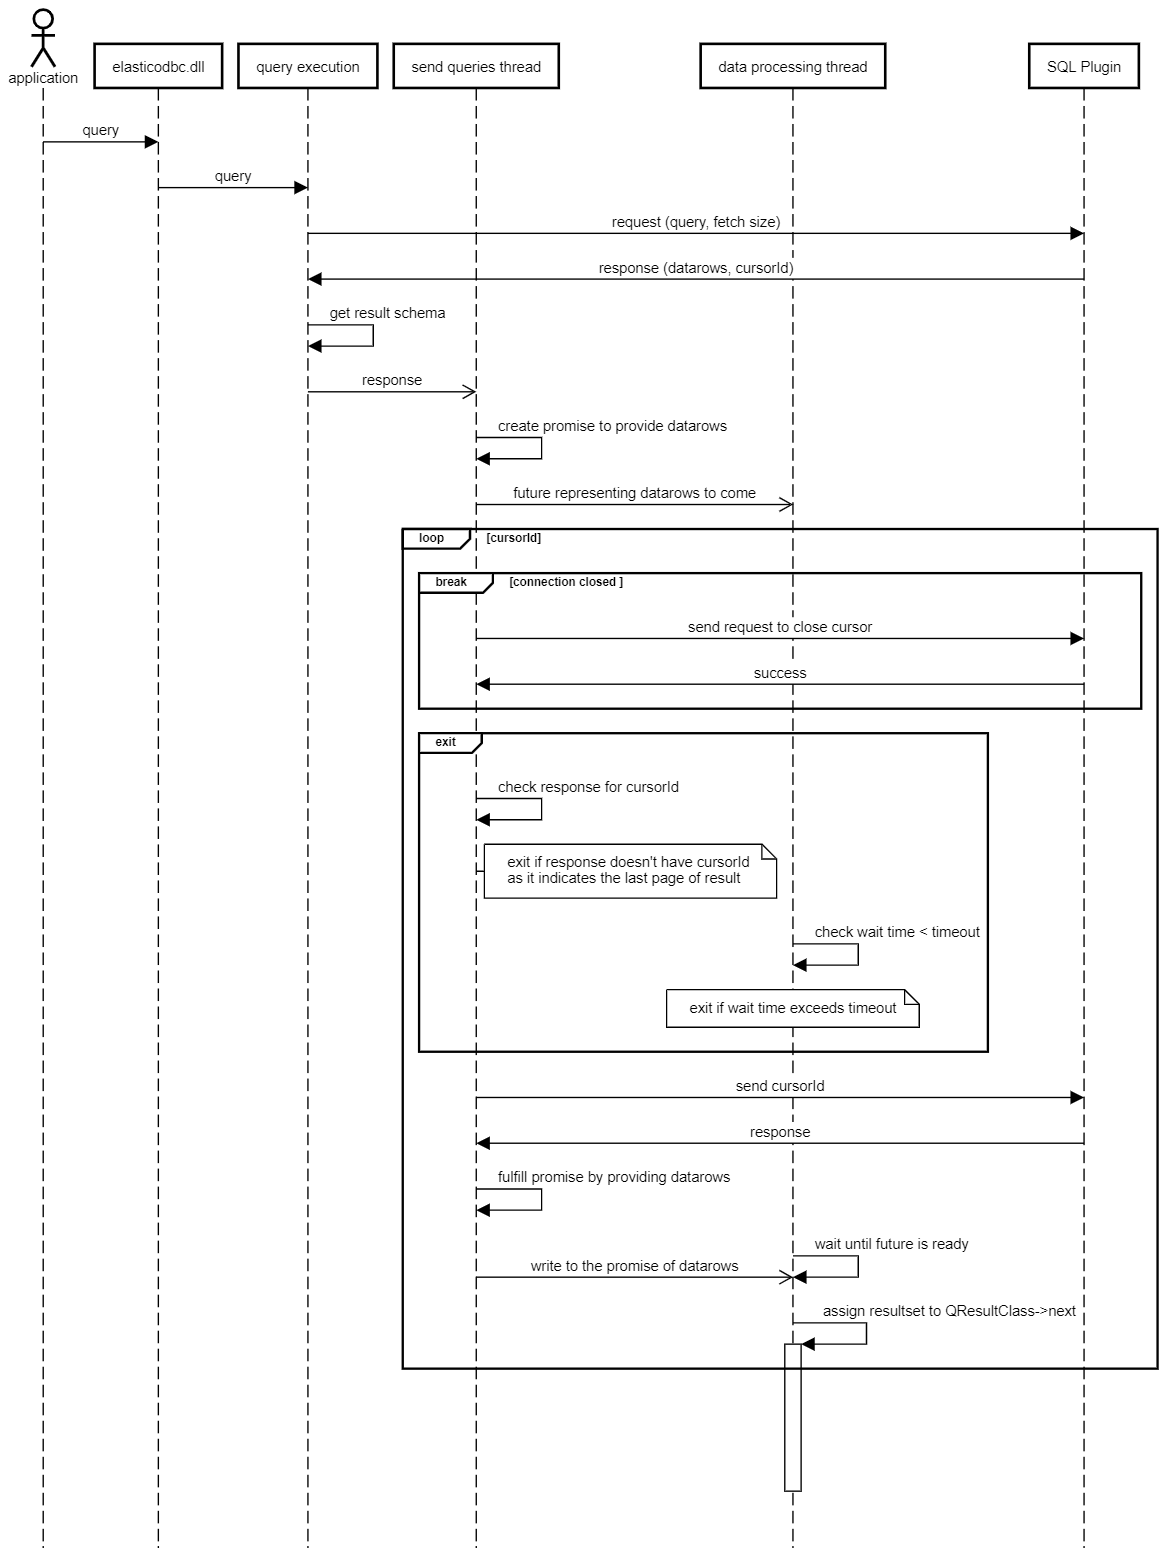
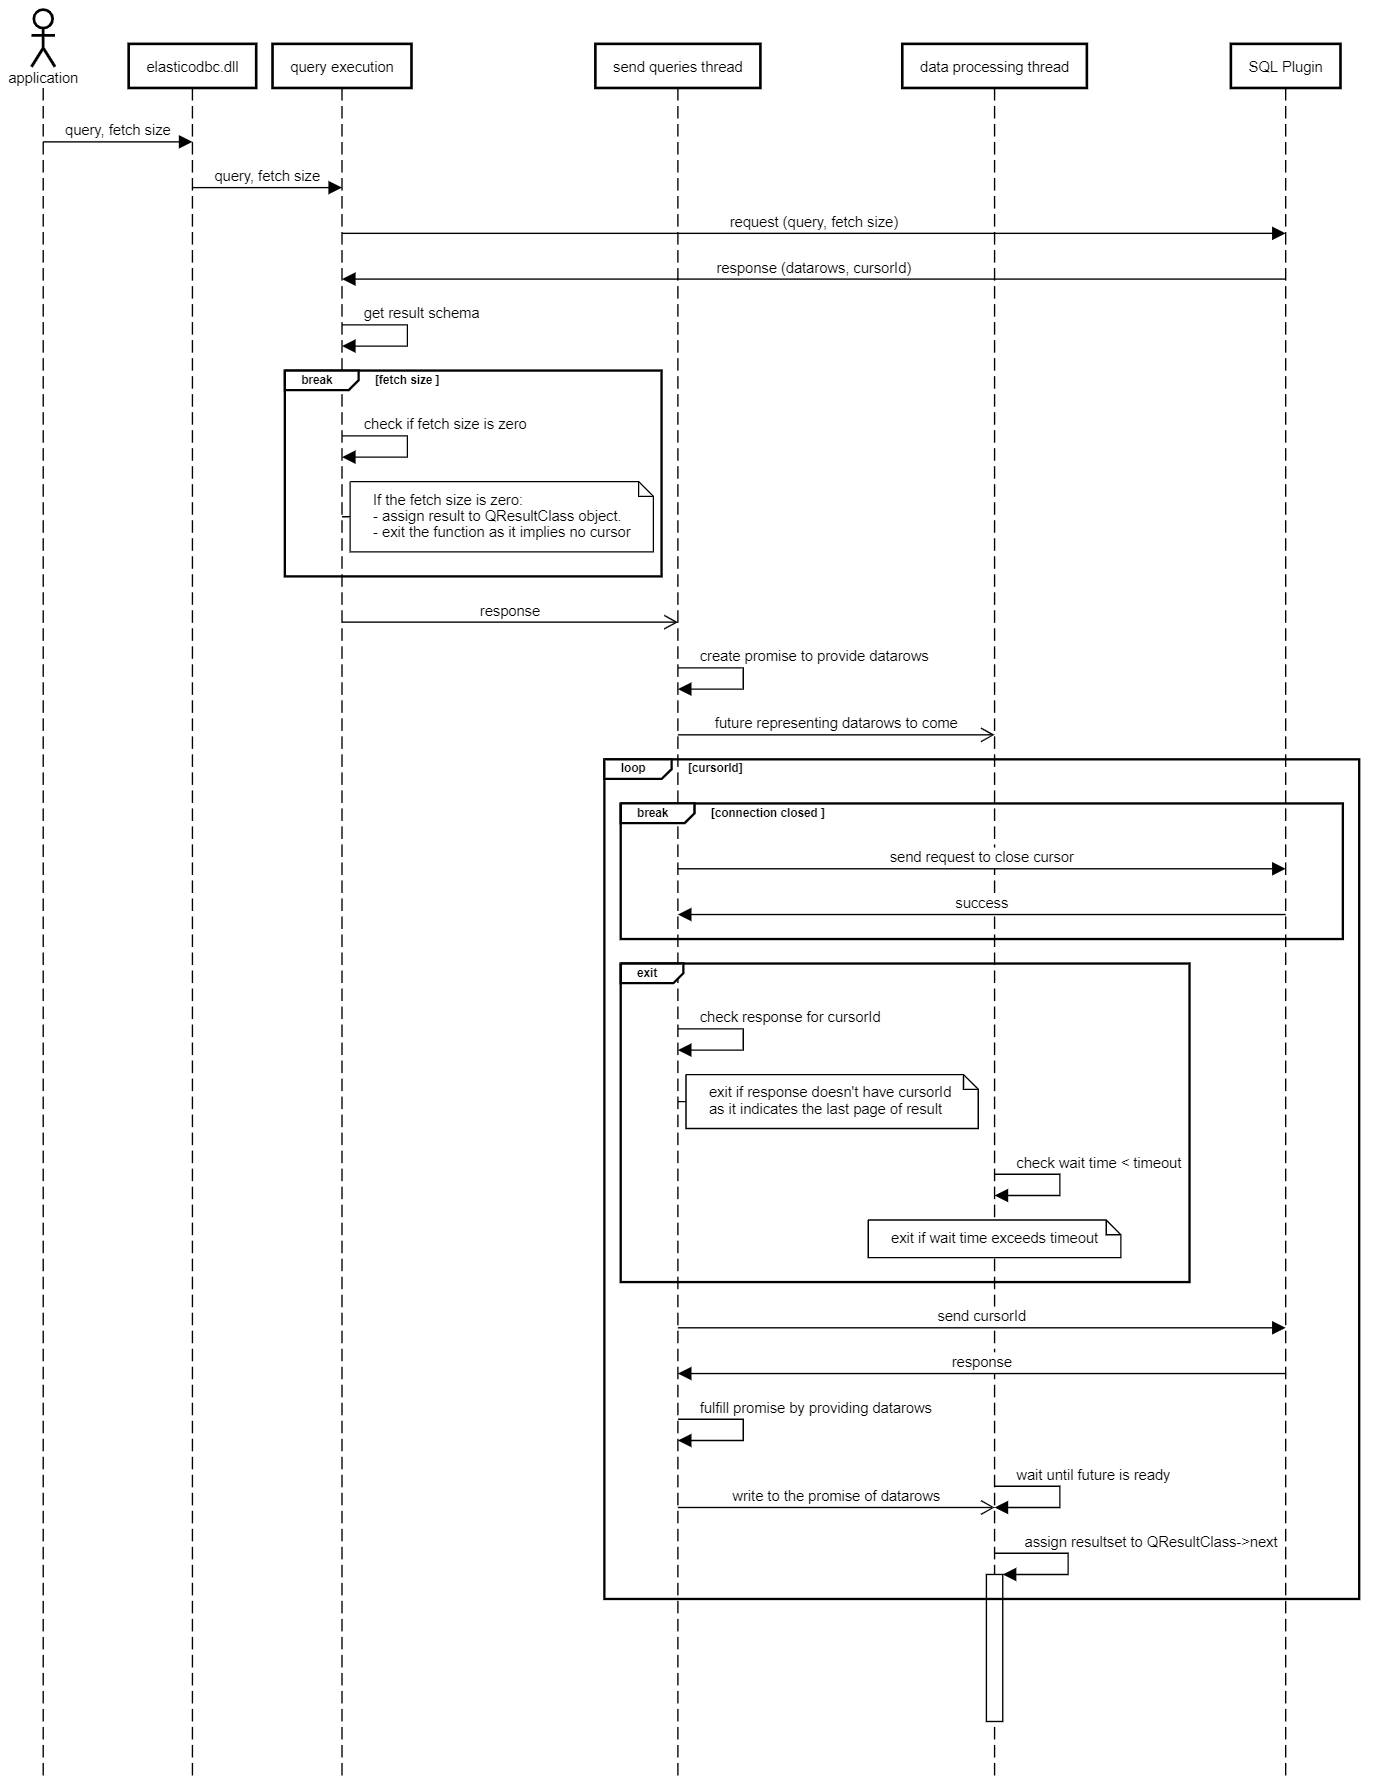
adding explicit zero case for fetch size

diff --git a/docs/dev/Pagination.md b/docs/dev/Pagination.md
@@ -13,7 +13,8 @@ For information on how the pagination is supported on Elasticsearch server, chec
 * Steps 3 & 4 will repeatedly get datarows until entire result is retrieved.
 * Step 5 will send a request to close cursor whenever the connection is closed.
 * ODBC Driver will provide an option to define fetch size as a connection parameter.
-* If fetch size is not given or zero then the number of rows per request will be as per server-defined [default fetch size](https://github.com/opendistro-for-elasticsearch/sql/blob/master/docs/dev/Pagination.md#42-salient-points).
+  * If fetch size is zero, query will fallback to non-cursor behavior.
+  * If fetch size is not given then the number of rows per request will be as per server-defined [default fetch size](https://github.com/opendistro-for-elasticsearch/sql/blob/master/docs/dev/Pagination.md#42-salient-points).
 * ODBC Driver will send the request to close cursor whenever the connection is closed.
 
 ## Detailed Design
